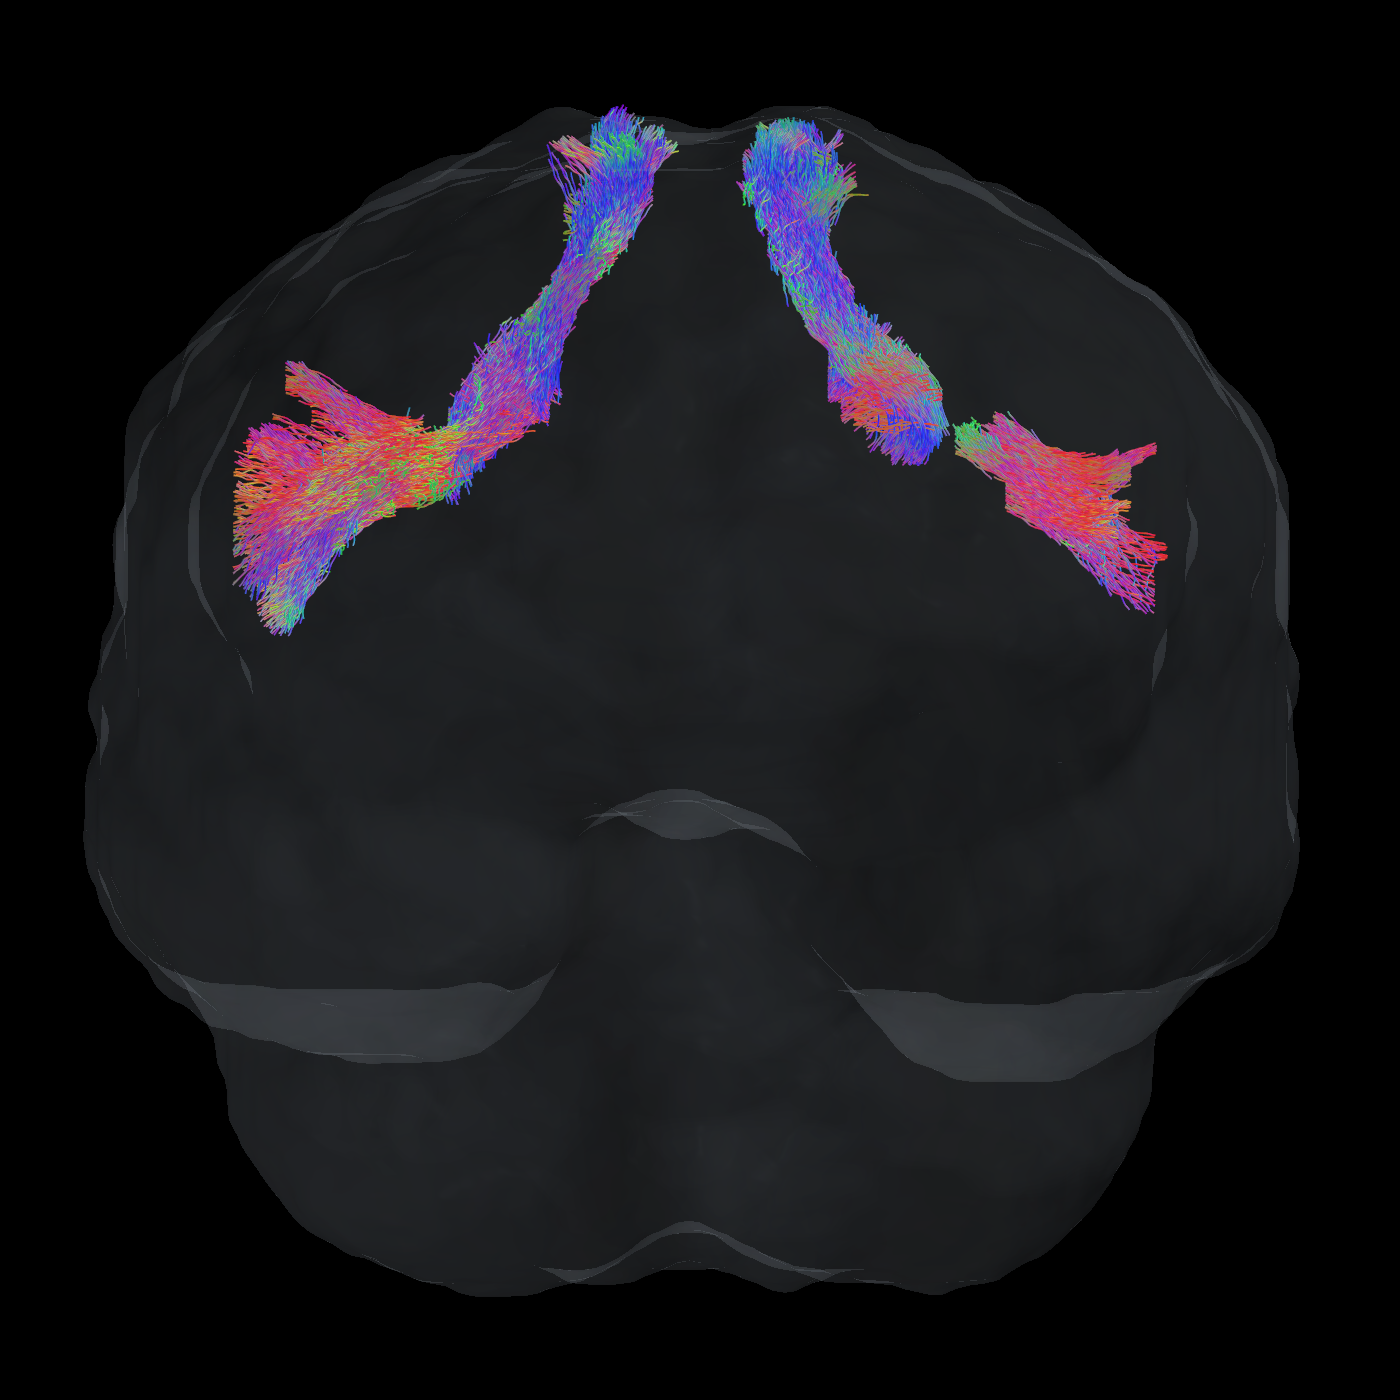
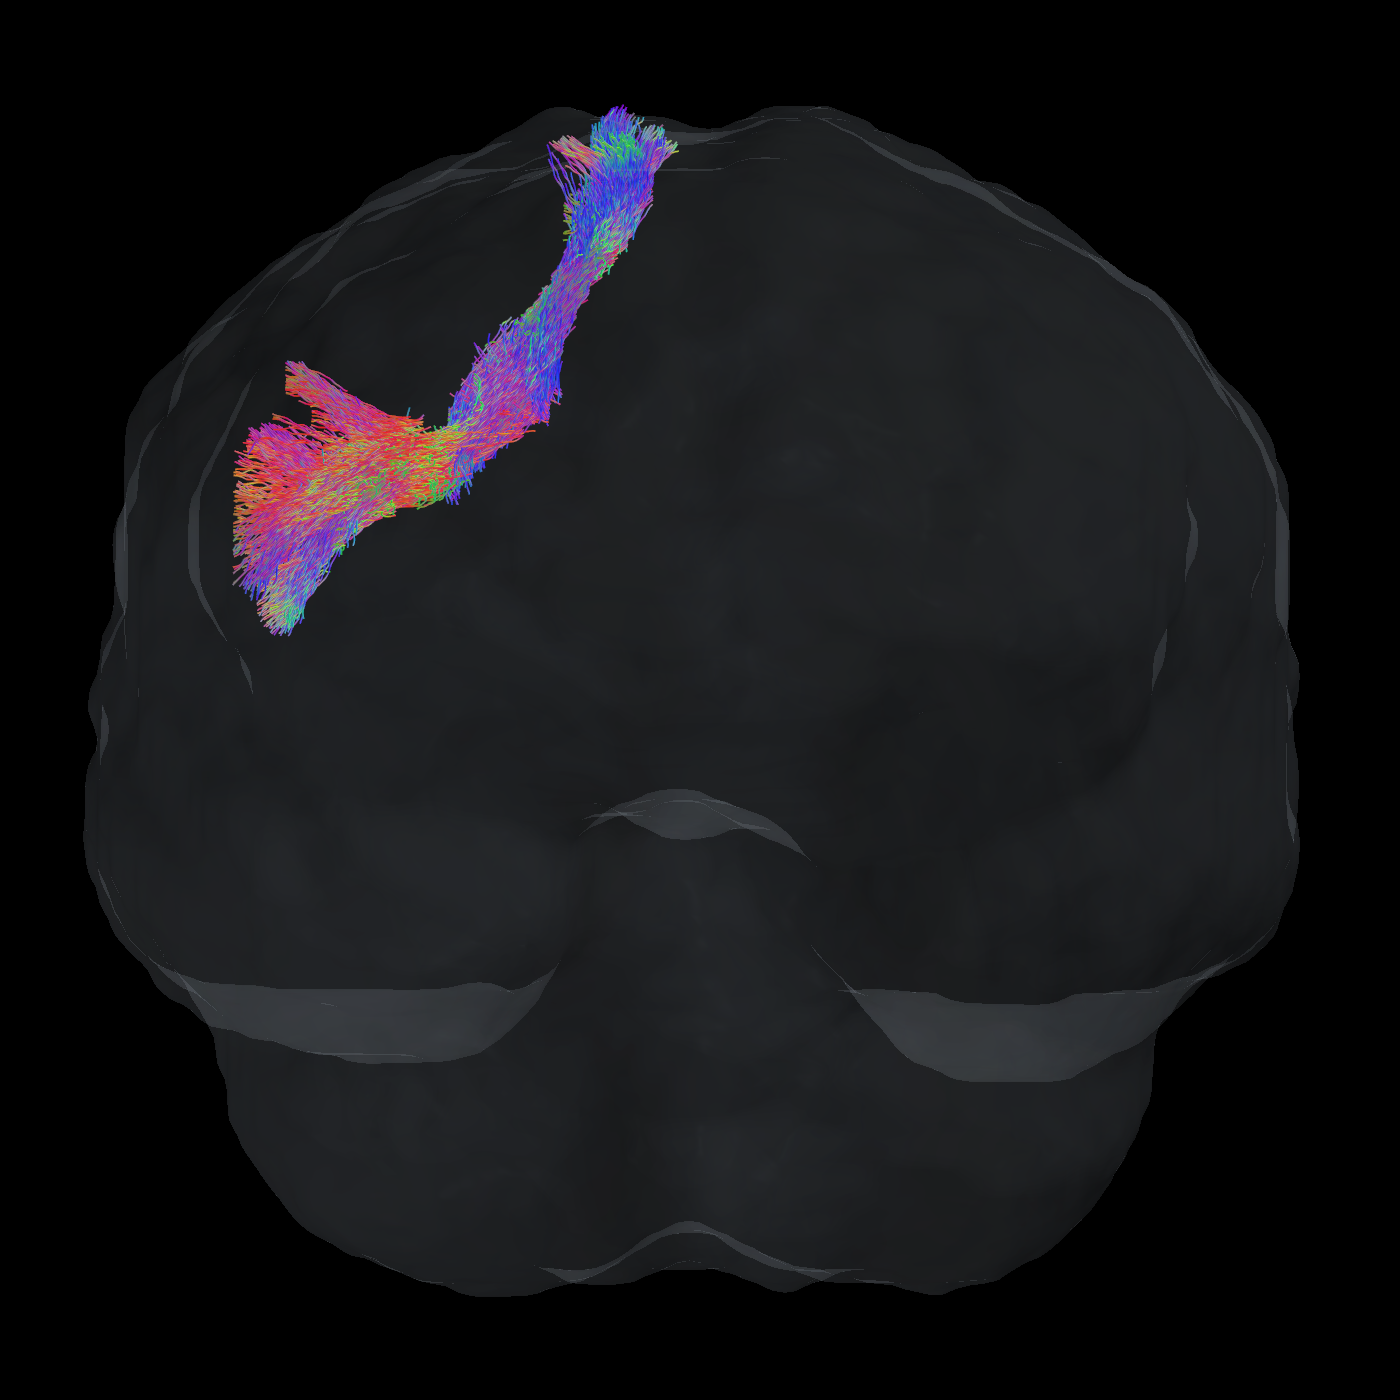
Show right FAT and document left tracking discontinuity audit

Changed region(s): [[0.5221, 0.0614, 0.8293, 0.4607]]

diff --git a/VALIDATION.md b/VALIDATION.md
@@ -34,6 +34,38 @@ and the same final containment filter.
 FACT, density maps, and optional FA summaries are additional features of the
 extended workflow, rather than outputs of the simple script.
 
+## Local example: left FAT discontinuity
+
+The README preview displays the **right FAT only**. The left reconstruction in
+this tumour example appears interrupted. Both binary bundle masks are single
+connected components even under face-only (6-neighbour) connectivity, so the
+appearance cannot be explained by a disconnected segmentation alone.
+
+An exploratory tracking comparison used two regions within the left bundle
+mask: its lateral portion at world RAS x < -38 mm and its medial portion at
+x > -24 mm. These are diagnostic coordinate-based regions, not validated
+IFG/SMA endpoint ROIs. Neither of the original 2000-streamline left iFOD2 and
+SD_STREAM outputs contained a streamline visiting both regions.
+
+Two additional iFOD2 runs generated 4000 candidates each with the workflow's
+seed mask, length limits, cutoff, and other tracking settings. Only the tracking
+boundary mask was omitted in the second run; no final containment filter was
+applied before this comparison.
+
+| Tracking boundary | Candidates | Visiting both regions | Connecting segment entirely inside the bundle mask |
+| --- | ---: | ---: | ---: |
+| Left FAT mask | 4000 | 0 | 0 |
+| No boundary mask | 4000 | 88 | 0 |
+
+These stochastic runs support a contribution from the tracking boundary to the
+missing connection. The whole-track filter does not split streamlines, and the
+masked candidates already lacked connections before filtering. Unrestricted
+connections are not evidence of anatomically correct FAT fibres. This comparison
+does not establish whether tumour, oedema, FOD estimation, or segmentation
+accounts for the mismatch between candidate paths and the bundle mask. It also
+does not demonstrate anatomical tract destruction. Counts and containment alone
+do not establish a complete FAT reconstruction.
+
 ## Automated checks
 
 - 21 regression tests passed.

diff --git a/README.md b/README.md
@@ -7,9 +7,9 @@ using TractSeg's XTRACT-trained segmentation model and MRtrix3 tractography.
 It retains **2000 streamlines per hemisphere and algorithm**, with every stored
 point and connecting line segment inside the corresponding bundle mask.
 
-![Anterior 3D view of both frontal aslant tracts with direction-based RGB colouring](assets/fat_3d.png)
+![Anterior 3D view of the right frontal aslant tract with direction-based RGB colouring](assets/fat_3d.png)
 
-*Anterior view of the local example, with 2000 iFOD2 streamlines per hemisphere.
+*Anterior view of the right FAT in the local example, with 2000 iFOD2 streamlines.
 Streamline colours encode local direction: red = left–right, green =
 anterior–posterior, blue = inferior–superior. The translucent brain surface
 provides anatomical context from the corresponding T1 image.*
